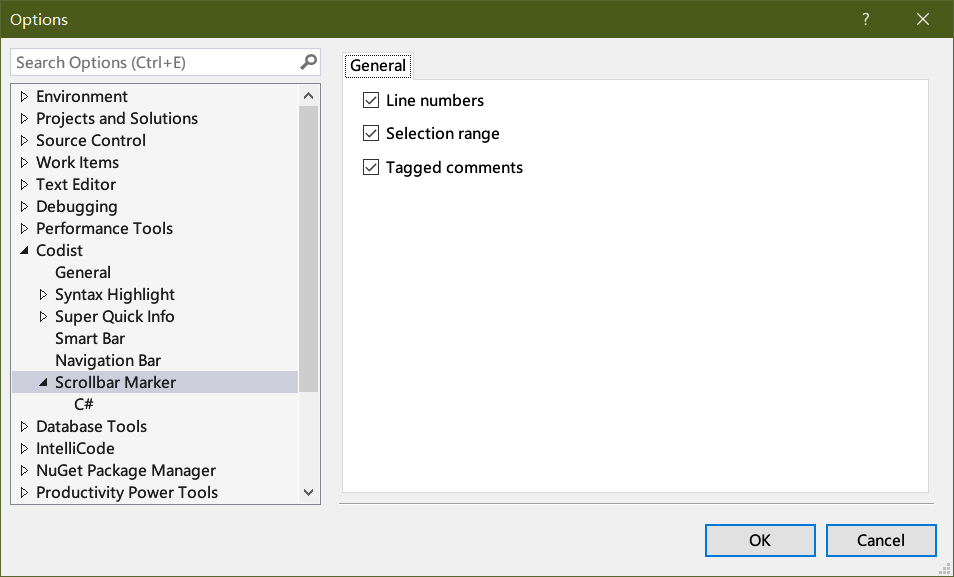
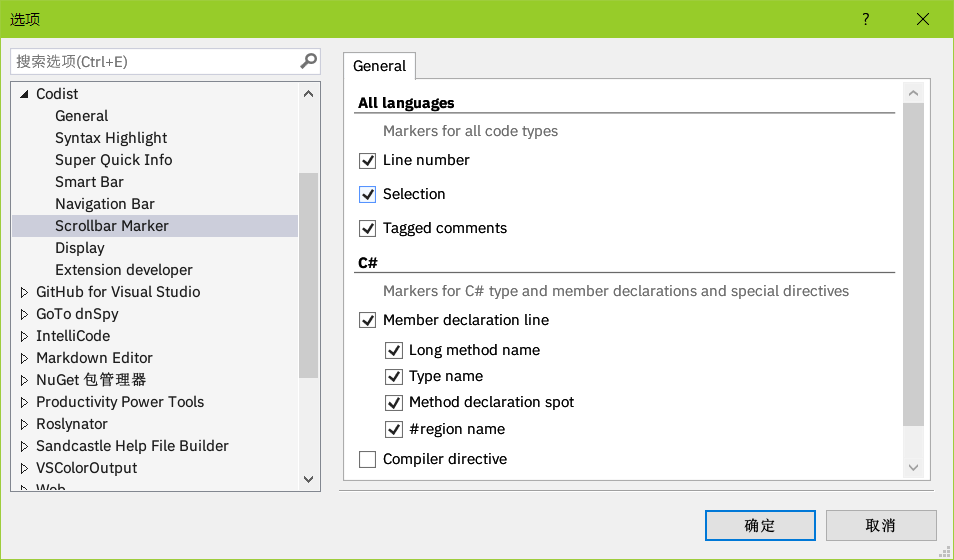
! Updated documentations

diff --git a/README.md b/README.md
@@ -6,7 +6,7 @@
 
 Check out this list to see what _Codist_ can do for you?
 
-* [Advanced Syntax Highlight](#advanced-c-syntax-highlight) with [*Comment Tagger*](#comment-tagger-and-styles)
+* [Advanced Syntax Highlight](#advanced-c-syntax-highlight) items in ANY LANGUAGES (**new in version 5.6**), and [*Comment Tagger*](#comment-tagger-and-styles) highlights your `to-do` style comments
   ![](doc/feature-brief-syntax-highlight.png)
 * [Super Quick Info](#super-quick-info) with extended XML Doc, *Click and Go* to source code
   ![Feature Brief Super Quick Info](doc/feature-brief-super-quick-info.png)
@@ -28,6 +28,8 @@ Check out this list to see what _Codist_ can do for you?
 
   The advanced syntax highlight function highlights every aspect of C# language elements with diverse styles, including using various font families and text styles, enlarging or shrinking font sizes, changing foreground or background colors and transparency.
 
+  From version 5.6 on, it is possible to change syntax highlight styles in any languages, such as Visual BASIC, F#, SASS, and so on, even if they are not recognized by Codist.
+
   The following screenshots of the `TestPage.cs` file in the source code project demonstrates possible syntax highlight effects in the Light theme.
  
   ![Syntax highlight](doc/highlight1.png) 
@@ -44,9 +46,11 @@ Check out this list to see what _Codist_ can do for you?
 
 ### Default Syntax Highlight Themes
 
-  To quickly get started with advanced syntax highlight, open a C# project, then open the _Options_ dialog, navigate to the *Syntax Highlight* section, click the **Light theme** or **Dark theme** button in the dialog and see changes in effect. Don't forget to click the *OK* button to confirm the changes.
+  To quickly get started with advanced syntax highlight, open a C# project, then click the _Customize Codist Syntax Highlighting_ command under the _Tools_ menu.
 
-  ![Load Theme](doc/load-theme.png)
+  A window will pop up, click the **Light theme** or **Dark theme** button at the left side of the dialog and see changes in effect. Don't forget to click the *OK* button to confirm the changes.
+
+  ![Load Theme](doc/syntax-highlight-customization-window.png)
 
   With the **Save** and **Load** buttons, you can backup and share your own syntax highlight settings.
 
@@ -54,29 +58,33 @@ Check out this list to see what _Codist_ can do for you?
 
   **Note**: There is a known issue in _Codist_ that if you change the theme of Visual Studio, you may have to restart it to make syntax highlight settings to work properly.
 
-  It is possible to load only part of the syntax preset or backup theme by unchecking check boxes under _Load following parts when importing themes_.
-
 ### Customization of Syntax Highlight Styles
 
-  To customize and tweak the syntax highlight styles, click the sub sections inside the *Syntax Highlight* section to change individual styles, accordingly.
+  To customize and tweak the desired syntax highlight styles, click or select the text in the document window, and click the _Customize Codist Syntax Highlighting_ command under the _Tools_ menu.
 
-  ![Style customization](doc/syntax-highlight.png)
+  The customization window will pop up and listing syntax classifications applied to the active text.
 
-  Syntax definitions under the _All languages_ section apply to all languages; those under _Comment_ section apply to comment taggers (see below), others apply to corresponding languages accordingly.
+  ![Syntax Highlight Customizing Selected](doc/syntax-highlight-customizing-selected.png)
+
+  Click the style in the Syntax Styles list, adjustment controls will be displayed at the bottom of the dialog, where you can change the style. As you change the style, you can immediately see how it appears in the code document window.
+
+  ![Syntax Highlight Customization Preview](doc/syntax-highlight-customization-preview.png)
+
+  If you want to change another syntax element, you can click on the place where it is applied in the code document window. If the customization window is still opened, and the _Selected Code_ section under _Syntax Categories_ is selected, when you focus on that window again, corresponding syntax styles will be listed for the place you clicked.
+
+  You can explore other synta categories by clicking the list on the left of the dialog.
+
+  Syntax definitions in the _All languages_ section will list all syntax styles for any languages installed; those under _Tagged comments_ section apply to comment taggers (see below), others apply to corresponding languages accordingly.
 
   **Note**: _Font size_ is relative value to editor default font size. Halfly checked checkboxes denote default syntax styles are used.
 
   **A Side Note for Editor Font**: You may consider subsituting the font used by Visual Studio code editor with professionally designed fonts for programming, for instance, [IBM Plex Mono](https://github.com/IBM/plex), [Fira Code](https://github.com/tonsky/FiraCode), etc. Employing [MacType](https://github.com/snowie2000/mactype) can also enhance systemwide textual display quality, especially for Chinese, Japanese and Korean programmers.
 
-  **TIP**: Open a document window before you change the syntax theme or tweak the syntax highlight settings. While you change theme, you can see how the styles change in the code document window simultaneously.
-
 ### My Symbols and External Symbols
 
-  _Codist_ can identify symbols which are defined in your source code and which are imported from external assemblies. This feature is so unique that you may not find it elsewhere.
+  _Codist_ can identify symbols which are defined in your source C# code and which are imported from external assemblies. This feature is so unique that you may not find it elsewhere.
 
-  You can customize it in the *Symbol Marker* tab of in the *C#* section of *Syntax Highlight*. Style _My Type and Member_ is used for symbols from your code, and _Referenced Type and Member_ is used for symbols imported from external assemblies.
-
-  ![Symbolmarker Options 2](doc/symbolmarker-options-2.png)
+  You can customize it in the *symbol markers* section under the *C#* section in the *Syntax Highlight Configurations* dialog. Style _C#: User symbol_ is used for symbols from your code, and _C#: Metadata symbol_ is used for symbols imported from external assemblies.
 
   **Note**: the predefined _Light theme_ and _Dark theme_ have defined external symbols with **bold** style, as the above screenshot shows.
 
@@ -88,17 +96,11 @@ Check out this list to see what _Codist_ can do for you?
 
     ![Comment syntax highlight](doc/syntax-highlight-comments.png)
 
-    To configure the comment tags, click the *Tags* tab, in the *Comment* sub-section of the *Syntax Highlight* section, where you can add, remove or modify comment tags.
+    To configure the comment tags, click the *tags* section, under the *Tagged comments* section in the *Syntax Highlight Configurations* dialog, where you can add, remove or modify comment tags.
 
-    ![Comment syntax highlight](doc/comment-tagger-options.png)
+    ![Syntax Highlight Comment Tags](doc/syntax-highlight-comment-tags.png)
 
-    To disable comment tagger, uncheck the check box of _Comment Tagger_ on the _Syntax Highlight_ option page.
-
-  * The syntax style of comments or C# XML Documentations could be changed too. You can make them semitrasparent to stand behind usual code lines by changing the *Opacity* or the *Font size* value of the corresponding syntax parts.
-
-    ![Comment syntax XML Doc](doc/csharp-options-xmldoc.png)
-
-    **Note**: the predefined _Light theme_ and _Dark theme_ have defined XML Doc with a smaller font size (-1), as the above screenshot shows.
+    To disable comment tagger, open the _Options_ dialog, find the _Codist/Syntax Highlight_ section and  uncheck the check box labeled _Enable comment tagger_ in the _Syntax Highlight_ option page.
 
 ## Super Quick Info
 
@@ -315,23 +317,21 @@ Check out this list to see what _Codist_ can do for you?
 
   ![Navigation Bar Options](doc/navigation-bar-options.png)
 
-  * If **Show syntax detail** option is set, the _Navigation Bar_ not only shows available types and declarations in the code window like the original navigation bar, but also syntax nodes such as statements and expressions containing the caret.
+  * If **Syntax detail** option is set, the _Navigation Bar_ not only shows available types and declarations in the code window like the original navigation bar, but also syntax nodes such as statements and expressions containing the caret.
 
     ![Navigation Bar Syntax Details](doc/navigation-bar-syntax-details.png)
 
-  * If **Show symbol info tip** option is set, you can read information about a symbol when you hover your mouse onto a node.
+  * If **Symbol info tip** option is set, you can read information about a symbol when you hover your mouse onto a node.
 
     ![Navigation Bar Symbol Info](doc/navigation-bar-symbol-info.png)
 
-  * If **Highlight node range in editor** option is set, when you hover the mouse over the node on the bar, corresponding span of the node will be highlighted in the editor.
+  * If **Highlight syntax range** option is set, when you hover the mouse over the node on the bar, corresponding span of the node will be highlighted in the editor.
 
     ![Navigation Bar Node Range](doc/navigation-bar-node-range.png)
 
-   * If **Show #region name** option is set, `#region` names will be displayed on the Navigation Bar. If you pad region names with some non-alphabetic characters like "`#region [====== private methods ======]`", you can check the **Trim non-letter characters** checkbox so only alphabetic part like "`private methods`" will be displayed on the _Navigation Bar_.
+   * If **Region** option is set, `#region` names will be displayed on the Navigation Bar. If you pad region names with some non-alphabetic characters like "`#region [====== private methods ======]`", you can check the **Trim non-letter characters in region** checkbox so only alphabetic part like "`private methods`" will be displayed on the _Navigation Bar_.
 
   To customize drop-down menus of the _Navigation Bar,_ change options in the _Drop-down Menu_ tab.
-
-  ![Navigation Bar Options 2](doc/navigation-bar-options-2.png)
 
 ### Markdown Navigation Bar
 
@@ -413,7 +413,7 @@ Check out this list to see what _Codist_ can do for you?
 
   Symbol markers will be cleared when the solution is unloaded.
 
-  **Note**: The style of symbol markers can be customized in options page of the *Syntax highlight* feature. The default colors are listed below. You also need to turn on the _Syntax Highlight_ feature in order to make this feature work.
+  **Note**: The style of symbol markers can be customized in othe *Syntax highlight Configurations* dialog. The default colors are listed below. You also need to turn on the _Syntax Highlight_ feature in order to make this feature work.
 
   ![Symbol marker Options](doc/symbolmarker-options.png)
 
@@ -454,7 +454,7 @@ Check out this list to see what _Codist_ can do for you?
 
   In the *Display* tab of the *General* options page, several display enhancement options are offered.
 
-  ![General Options Display](doc/general-options-display.png)
+  ![General Options Display](doc/display-options.png)
 
   Within the *Extra line margins* group box, you can adjust margins between lines to make code lines more readable.
 
